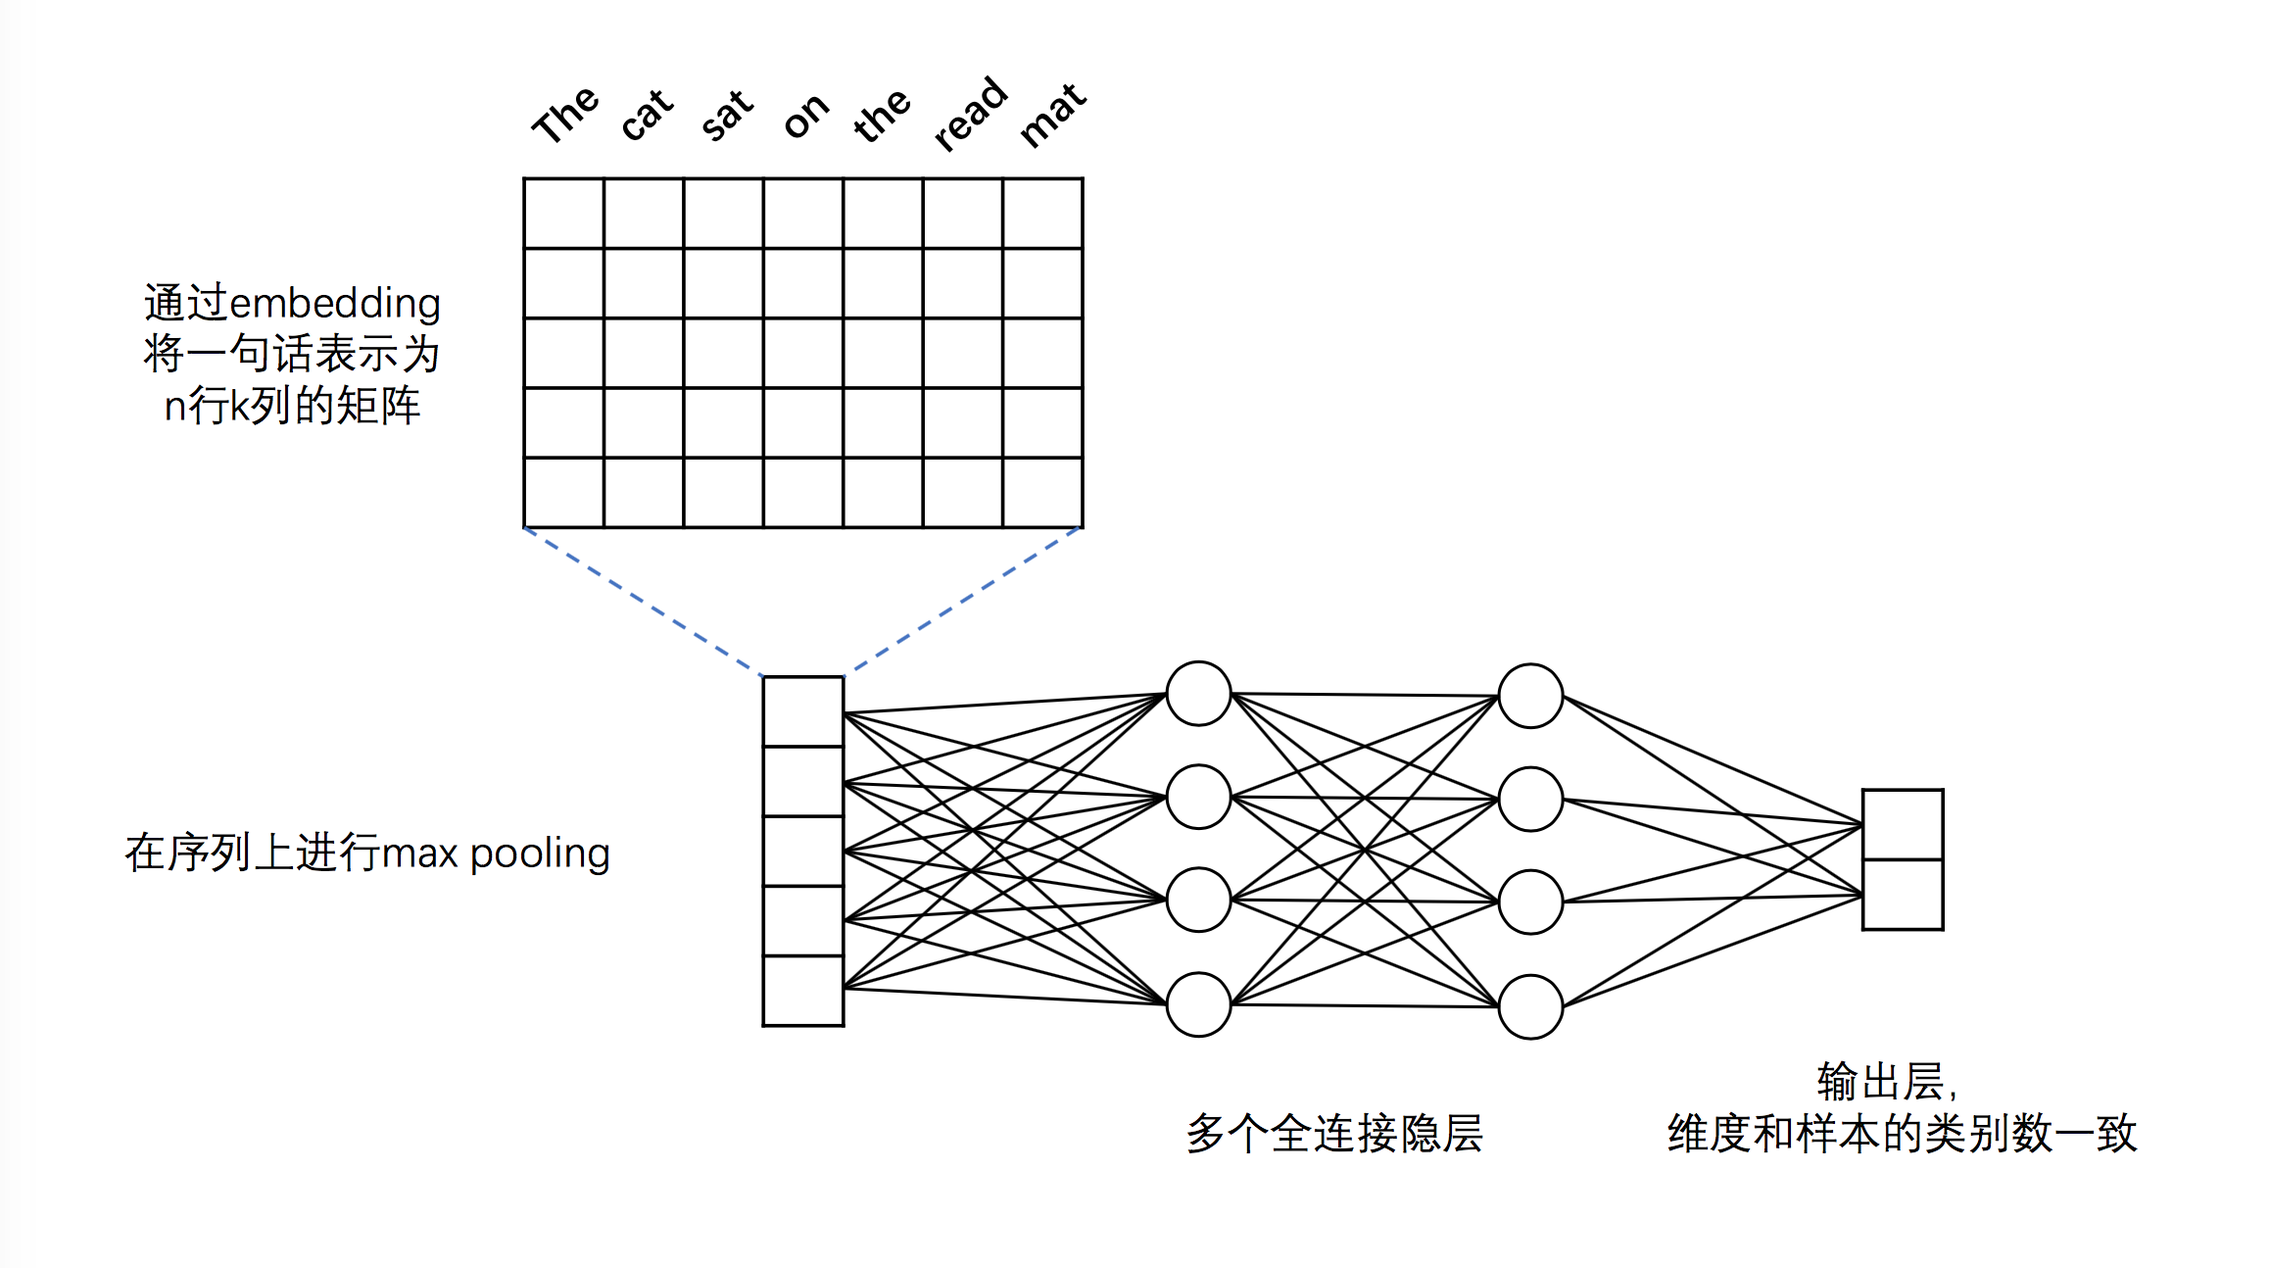
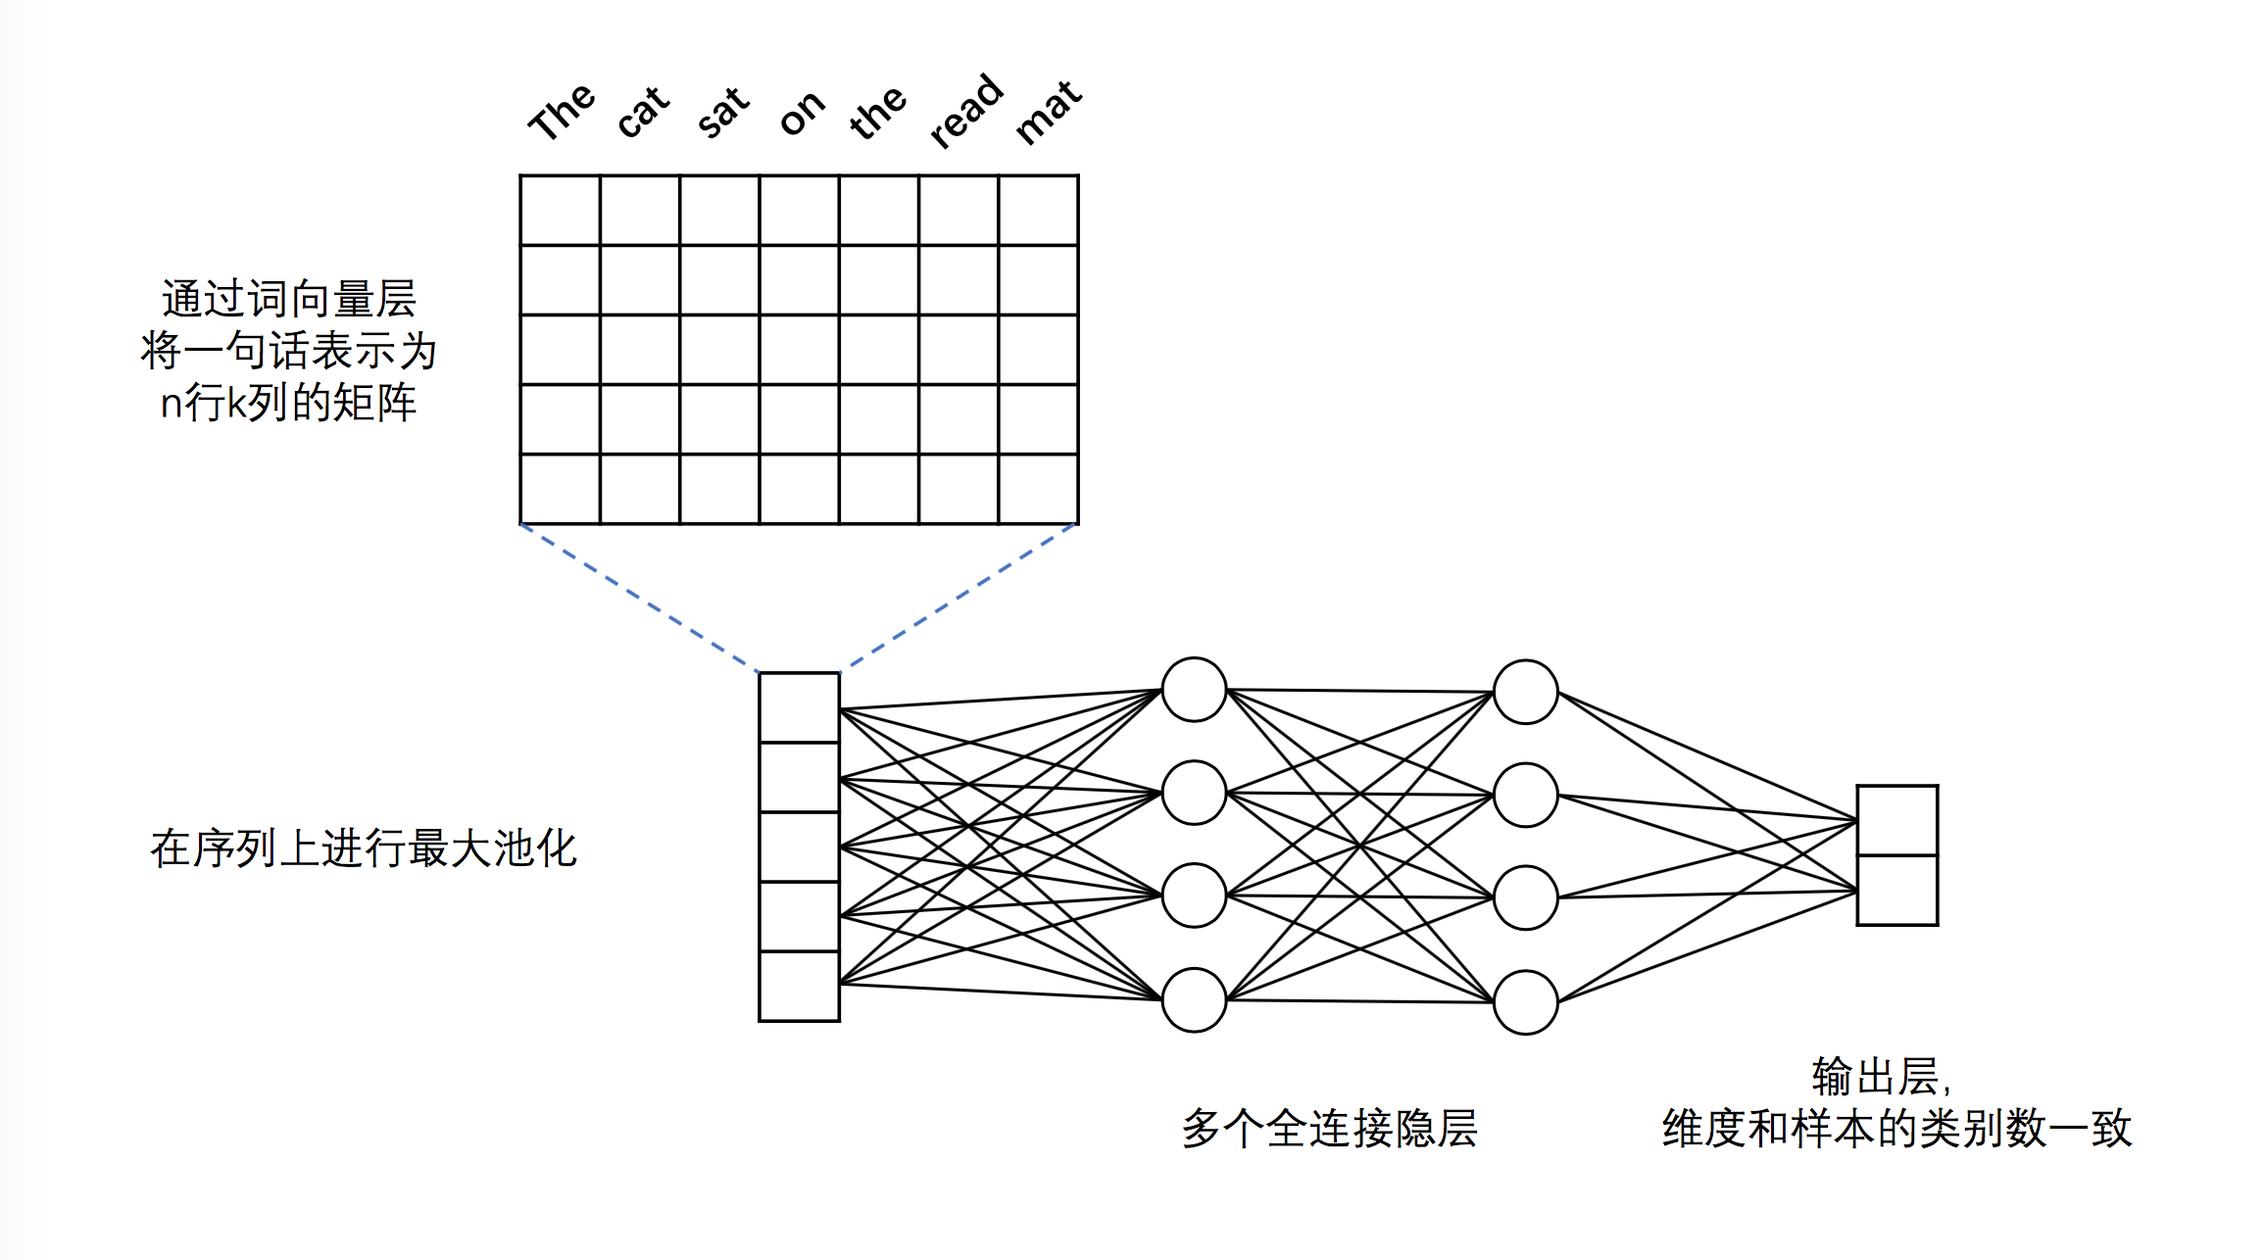
fix problems finded in review

diff --git a/text_classification/text_classification_dnn.py b/text_classification/text_classification_dnn.py
@@ -13,6 +13,7 @@
 # limitations under the License.
 
 import sys
+import math
 import paddle.v2 as paddle
 import gzip
 
@@ -30,23 +31,26 @@ def fc_net(input_dim, class_dim=2, emb_dim=256):
         input=emb, pooling_type=paddle.pooling.Max())
 
     # two hidden layers
+    hd_layer_size = [128, 32]
+    hd_layer_init_std = [1.0 / math.sqrt(s) / 3.0 for s in hd_layer_size]
     hd1 = paddle.layer.fc(
         input=seq_pool,
-        size=128,
+        size=hd_layer_size[0],
         act=paddle.activation.Tanh(),
-        param_attr=paddle.attr.Param(initial_std=0.01))
+        param_attr=paddle.attr.Param(initial_std=hd_layer_init_std[0]))
     hd2 = paddle.layer.fc(
         input=hd1,
-        size=32,
+        size=hd_layer_size[1],
         act=paddle.activation.Tanh(),
-        param_attr=paddle.attr.Param(initial_std=0.01))
+        param_attr=paddle.attr.Param(initial_std=hd_layer_init_std[1]))
 
     # output layer
     output = paddle.layer.fc(
         input=hd2,
         size=class_dim,
         act=paddle.activation.Softmax(),
-        param_attr=paddle.attr.Param(initial_std=0.1))
+        param_attr=paddle.attr.Param(initial_std=1.0 / math.sqrt(class_dim) /
+                                     3.0))
 
     cost = paddle.layer.classification_cost(input=output, label=lbl)
 
@@ -94,7 +98,8 @@ def train_dnn_model(num_pass):
         if isinstance(event, paddle.event.EndPass):
             result = trainer.test(reader=test_reader, feeding=feeding)
             print "\nTest with Pass %d, %s" % (event.pass_id, result.metrics)
-            with gzip.open("dnn_params.tar.gz", 'w') as f:
+            with gzip.open("dnn_params_pass" + str(event.pass_id) + ".tar.gz",
+                           'w') as f:
                 parameters.to_tar(f)
 
     # begin training network
@@ -108,7 +113,7 @@ def train_dnn_model(num_pass):
     print("Training finished.")
 
 
-def dnn_infer():
+def dnn_infer(file_name):
     print("Begin to predict...")
 
     word_dict = paddle.dataset.imdb.word_dict()
@@ -116,17 +121,13 @@ def dnn_infer():
     class_dim = 2
 
     [_, output] = fc_net(dict_dim, class_dim=class_dim)
-    parameters = paddle.parameters.Parameters.from_tar(
-        gzip.open("dnn_params.tar.gz"))
+    parameters = paddle.parameters.Parameters.from_tar(gzip.open(file_name))
 
     infer_data = []
-    infer_label_data = []
-    infer_data_num = 100
+    infer_data_label = []
     for item in paddle.dataset.imdb.test(word_dict):
         infer_data.append([item[0]])
-        infer_label_data.append(item[1])
-        if len(infer_data) == infer_data_num:
-            break
+        infer_data_label.append(item[1])
 
     predictions = paddle.infer(
         output_layer=output,
@@ -134,10 +135,12 @@ def dnn_infer():
         input=infer_data,
         field=['value'])
     for i, prob in enumerate(predictions):
-        print prob, infer_label_data[i]
+        print prob, infer_data_label[i]
 
 
 if __name__ == "__main__":
     paddle.init(use_gpu=False, trainer_count=4)
-    train_dnn_model(num_pass=5)
-    dnn_infer()
+    num_pass = 5
+    train_dnn_model(num_pass=num_pass)
+    param_file_name = "dnn_params_pass" + str(num_pass - 1) + ".tar.gz"
+    dnn_infer(file_name=param_file_name)

diff --git a/text_classification/text_classification_cnn.py b/text_classification/text_classification_cnn.py
@@ -82,7 +82,8 @@ def train_cnn_model(num_pass):
         if isinstance(event, paddle.event.EndPass):
             result = trainer.test(reader=test_reader, feeding=feeding)
             print "\nTest with Pass %d, %s" % (event.pass_id, result.metrics)
-            with gzip.open("cnn_params.tar.gz", 'w') as f:
+            with gzip.open("cnn_params_pass" + str(event.pass_id) + ".tar.gz",
+                           'w') as f:
                 parameters.to_tar(f)
 
     # begin training network
@@ -96,7 +97,7 @@ def train_cnn_model(num_pass):
     print("Training finished.")
 
 
-def cnn_infer():
+def cnn_infer(file_name):
     print("Begin to predict...")
 
     word_dict = paddle.dataset.imdb.word_dict()
@@ -104,17 +105,13 @@ def cnn_infer():
     class_dim = 2
 
     [_, output] = convolution_net(dict_dim, class_dim=class_dim)
-    parameters = paddle.parameters.Parameters.from_tar(
-        gzip.open("cnn_params.tar.gz"))
+    parameters = paddle.parameters.Parameters.from_tar(gzip.open(file_name))
 
     infer_data = []
-    infer_label_data = []
-    infer_data_num = 100
+    infer_data_label = []
     for item in paddle.dataset.imdb.test(word_dict):
         infer_data.append([item[0]])
-        infer_label_data.append(item[1])
-        if len(infer_data) == infer_data_num:
-            break
+        infer_data_label.append(item[1])
 
     predictions = paddle.infer(
         output_layer=output,
@@ -122,10 +119,12 @@ def cnn_infer():
         input=infer_data,
         field=['value'])
     for i, prob in enumerate(predictions):
-        print prob, infer_label_data[i]
+        print prob, infer_data_label[i]
 
 
 if __name__ == "__main__":
     paddle.init(use_gpu=False, trainer_count=4)
-    train_cnn_model(num_pass=5)
-    cnn_infer()
+    num_pass = 5
+    train_cnn_model(num_pass=num_pass)
+    param_file_name = "cnn_params_pass" + str(num_pass - 1) + ".tar.gz"
+    cnn_infer(file_name=param_file_name)

diff --git a/text_classification/README.md b/text_classification/README.md
@@ -1,30 +1,35 @@
 # 文本分类
 文本分类是机器学习中的一项常见任务，主要目的是根据一条文本的内容，判断该文本所属的类别。在本例子中，我们利用有标注的IMDB语料库训练二分类DNN和CNN模型，完成对语料的简单文本分类。
 
+DNN与CNN模型之间最大的区别在于，CNN模型中存在卷积结构，而DNN大多使用基本的全连接结构。这使得CNN模型可以对语料信息中相邻单词组成的短语进行分析。例如，"The apple is not bad"，其中的"not bad"是决定这个句子情感的关键。对于DNN模型来说，只能感知到句子中有一个"not"和一个"bad"，而CNN模型则可能直接感知到"not bad"这个关键词组。因此，在大多数文本分类任务上，CNN模型的表现要好于DNN。
+
 ## 实验数据
-本例子的实验在IMDB数据集上进行。IMDB数据集包含了来自IMDb（互联网电影数据库）网站的5万条电影影评，并被标注为正面/负面两种评价。数据集被划分为train和test两部分，各2.5万条数据，正负样本的比例基本为1:1。样本直接以英文原文的形式表示。
+本例子的实验在IMDB数据集上进行（[数据集下载](http://ai.stanford.edu/%7Eamaas/data/sentiment/aclImdb_v1.tar.gz)）。IMDB数据集包含了来自IMDb（互联网电影数据库）网站的5万条电影影评，并被标注为正面/负面两种评价。数据集被划分为train和test两部分，各2.5万条数据，正负样本的比例基本为1:1。样本直接以英文原文的形式表示。
+
+本样例在第一次运行的时候会自动下载IMDB数据集并缓存，用户无需手动下载。
 
 ## DNN模型
 
-#### DNN的模型结构入下图所示：
+***DNN的模型结构入下图所示：***
 
 <p align="center">
 <img src="images/dnn_net.png" width = "90%" align="center"/><br/>
 图1. DNN文本分类模型
 </p>
 
-#### 可以看到，模型主要分为如下几个部分：
+***可以看到，模型主要分为如下几个部分：***
 
-- **embedding层**：IMDB的样本由原始的英文单词组成，为了方便模型的训练，必须通过embedding将英文单词转化为固定维度的向量。  
+- **词向量层**：IMDB的样本由原始的英文单词组成，为了方便模型的训练，必须将英文单词转化为固定维度的向量。  
 
-- **max pooling**：max pooling在时间序列上进行，pooling过程消除了不同语料样本在单词数量多少上的差异，并提炼出词向量中每一下标位置上的最大值。经过pooling后，样本被转化为一条固定维度的向量。  
+- **最大池化层**：最大池化在时间序列上进行，池化过程消除了不同语料样本在单词数量多少上的差异，并提炼出词向量中每一下标位置上的最大值。经过池化后，样本被转化为一条固定维度的向量。例如，假设最大池化前的矩阵为`[[2,3,5],[7,3,6],[1,4,0]]`，该矩阵每一列代表一个词向量，则最大池化的结果为：`[[5],[7],[4]]`。
 
-- **全连接隐层**：经过max pooling后的向量被送入一个具有两个隐层的DNN模型，隐层之间为全连接结构。
+- **全连接隐层**：经过最大池化后的向量被送入两个连续的隐层，隐层之间为全连接结构。
 
 
 - **输出层**：输出层的神经元数量和样本的类别数一致，例如在二分类问题中，输出层会有2个神经元。通过Softmax激活函数，我们保证输出层各神经元的输出之和为1，因此第i个神经元的输出就可以认为是样本属于第i类的预测概率。
 
-#### 通过Paddle实现该DNN结构的代码如下：
+***通过PaddlePaddle实现该DNN结构的代码如下：***
+
 ```python
 import paddle.v2 as paddle
 
@@ -41,53 +46,55 @@ def fc_net(input_dim, class_dim=2, emb_dim=256):
         input=emb, pooling_type=paddle.pooling.Max())
 
     # two hidden layers
+    hd_layer_size = [128, 32]
+    hd_layer_init_std = [1.0/math.sqrt(s)/3.0 for s in hd_layer_size]
     hd1 = paddle.layer.fc(
         input=seq_pool,
-        size=128,
+        size=hd_layer_size[0],
         act=paddle.activation.Tanh(),
-        param_attr=paddle.attr.Param(initial_std=0.01))
+        param_attr=paddle.attr.Param(initial_std=hd_layer_init_std[0]))
     hd2 = paddle.layer.fc(
         input=hd1,
-        size=32,
+        size=hd_layer_size[1],
         act=paddle.activation.Tanh(),
-        param_attr=paddle.attr.Param(initial_std=0.01))
+        param_attr=paddle.attr.Param(initial_std=hd_layer_init_std[1]))
 
     # output layer
     output = paddle.layer.fc(
         input=hd2,
         size=class_dim,
         act=paddle.activation.Softmax(),
-        param_attr=paddle.attr.Param(initial_std=0.1))
+        param_attr=paddle.attr.Param(initial_std=1.0/math.sqrt(class_dim)/3.0))
 
     cost = paddle.layer.classification_cost(input=output, label=lbl)
 
     return cost, output
 
 ```
-该DNN模型默认对输入的语料进行二分类（`class_dim=2`），embedding的词向量维度默认为256(`emd_dim=256`)，两个隐层均使用Tanh激活函数（`act=paddle.activation.Tanh()`）。
+该DNN模型默认对输入的语料进行二分类（`class_dim=2`），embedding的词向量维度默认为256（`emd_dim=256`），两个隐层均使用Tanh激活函数（`act=paddle.activation.Tanh()`）。
 
 需要注意的是，该模型的输入数据为整数序列，而不是原始的英文单词序列。事实上，为了处理方便我们一般会事先将单词根据词频顺序进行id化，即将单词用整数替代。这一步一般在DNN模型之外完成。
 
 ## CNN模型
 
-#### CNN的模型结构如下图所示：
+***CNN的模型结构如下图所示：***
 
 <p align="center">
 <img src="images/cnn_net.png" width = "90%" align="center"/><br/>
 图2. CNN文本分类模型
 </p>
 
-#### 可以看到，模型主要分为如下几个部分:
+***可以看到，模型主要分为如下几个部分:***
 
-- **embedding层**：与DNN中embedding的作用一样，将英文单词转化为固定维度的向量。如图2中所示，将embedding得到的词向量定义为行向量，再将语料中所有的单词产生的行向量拼接在一起组成矩阵。假设embedding_size=5，语料“The cat sat on the read mat”包含7个单词，那么得到的矩阵维度为7*5。
+- **词向量层**：与DNN中词向量层的作用一样，将英文单词转化为固定维度的向量。如图2中所示，将得到的词向量定义为行向量，再将语料中所有的单词产生的行向量拼接在一起组成矩阵。假设词向量维度为5，语料“The cat sat on the read mat”包含7个单词，那么得到的矩阵维度为7*5。
 
-- **卷积层**： 文本分类中的卷积在时间序列上进行，即卷积核的宽度和embedding得到的矩阵一致，卷积验证矩阵的高度方向进行。假设卷积核的高度为h，矩阵的高度为N，卷积的step_size为1，则卷积后得到的feature map为一个高度为N+1-h的向量。可以同时使用多个不同高度的卷积核，得到多个feature map。
+- **卷积层**： 文本分类中的卷积在时间序列上进行，即卷积核的宽度和词向量层产出的矩阵一致，卷积验证矩阵的高度方向进行。卷积后得到的结果被称为“特征图”（feature map）。假设卷积核的高度为h，矩阵的高度为N，卷积的步长为1，则得到的特征图为一个高度为N+1-h的向量。可以同时使用多个不同高度的卷积核，得到多个特征图。
 
-- **max pooling**: 对卷积得到的各个feature map分别进行max pooling操作。由于feature map本身已经是向量，因此这里的max pooling实际上就是简单地选出各个向量中的最大元素。各个最大元素又被并置在一起，组成新的向量，显然，该向量的维度等于feature map的数量，也就是卷积核的数量。
+- **最大池化层**: 对卷积得到的各个特征图分别进行最大池化操作。由于特征图本身已经是向量，因此这里的最大池化实际上就是简单地选出各个向量中的最大元素。各个最大元素又被并置在一起，组成新的向量，显然，该向量的维度等于特征图的数量，也就是卷积核的数量。
 
-- **全连接与输出层**：将max pooling的结果通过全连接层输出，与DNN模型一样，最后输出层的神经元个数与样本的类别数量一致，且输出之和为1。
+- **全连接与输出层**：将最大池化的结果通过全连接层输出，与DNN模型一样，最后输出层的神经元个数与样本的类别数量一致，且输出之和为1。
 
-#### 通过Paddle实现该CNN结构的代码如下：
+***通过PaddlePaddle实现该CNN结构的代码如下：***
 
 ```python
 import paddle.v2 as paddle
@@ -114,9 +121,10 @@ def convolution_net(input_dim, class_dim=2, emb_dim=128, hid_dim=128):
     cost = paddle.layer.classification_cost(input=output, label=lbl)
 
     return cost, output
+
 ```
 
-该CNN网络的输入数据类型和前面介绍过的DNN一致。`paddle.networks.sequence_conv_pool`为Paddle中已经封装好的带有pooling的文本序列卷积模块，该模块的`context_len`参数用于指定卷积核在同一时间覆盖的文本长度，也即图2中的卷积核的高度；`hidden_size`用于指定该类型的卷积核的数量。可以看到，上述代码定义的结构中使用了128个大小为3的卷积核和128个大小为4的卷积核，这些卷积的结果经过max pooling和结果并置后产生一个256维的向量，向量经过一个全连接层输出最终预测结果。
+该CNN网络的输入数据类型和前面介绍过的DNN一致。`paddle.networks.sequence_conv_pool`为Paddle中已经封装好的带有池化的文本序列卷积模块，该模块的`context_len`参数用于指定卷积核在同一时间覆盖的文本长度，也即图2中的卷积核的高度；`hidden_size`用于指定该类型的卷积核的数量。可以看到，上述代码定义的结构中使用了128个大小为3的卷积核和128个大小为4的卷积核，这些卷积的结果经过最大池化和结果并置后产生一个256维的向量，向量经过一个全连接层输出最终预测结果。
 
 ## 运行与输出
 
@@ -132,7 +140,7 @@ def convolution_net(input_dim, class_dim=2, emb_dim=128, hid_dim=128):
 
 - **main函数**：主函数
 
-要运行本样例，直接在`text_classification_dnn.py`所在路径下执行`python ./text_classification_dnn.py`即可，样例会自动依次执行数据读取、模型训练和保存、模型读取、新样本预测等步骤。
+要运行本样例，直接在`text_classification_dnn.py`所在路径下执行`python ./text_classification_dnn.py`即可，样例会自动依次执行数据集下载、数据读取、模型训练和保存、模型读取、新样本预测等步骤。
 
 预测的输出形式为：
 
